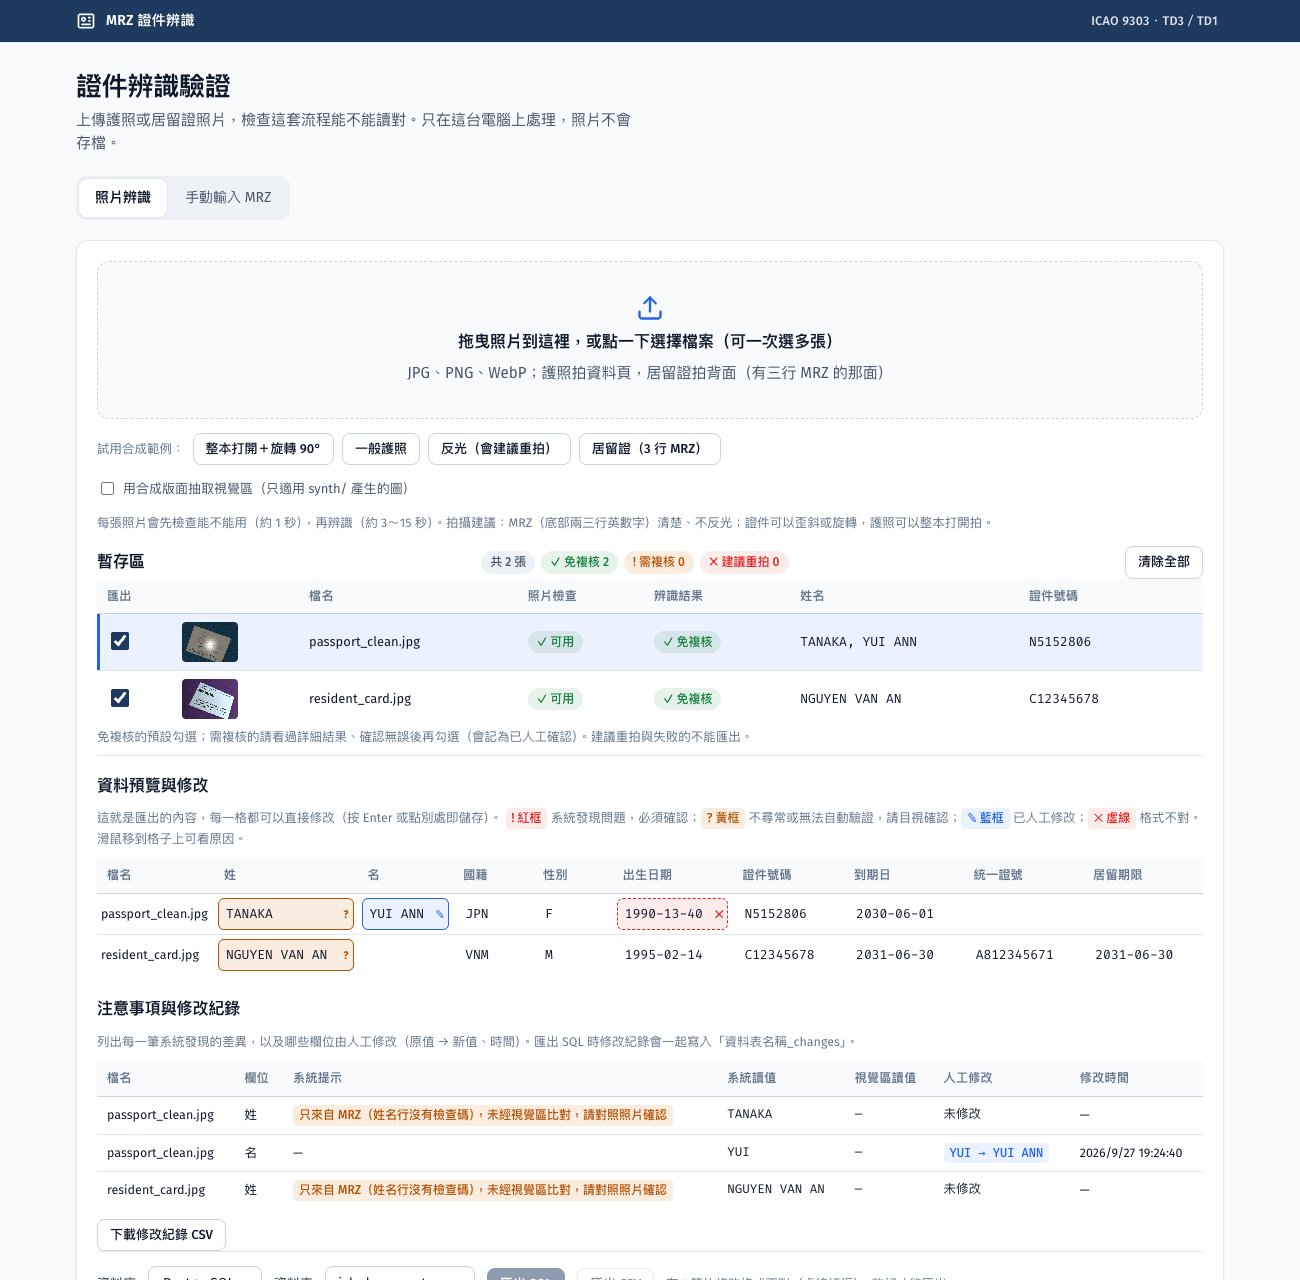
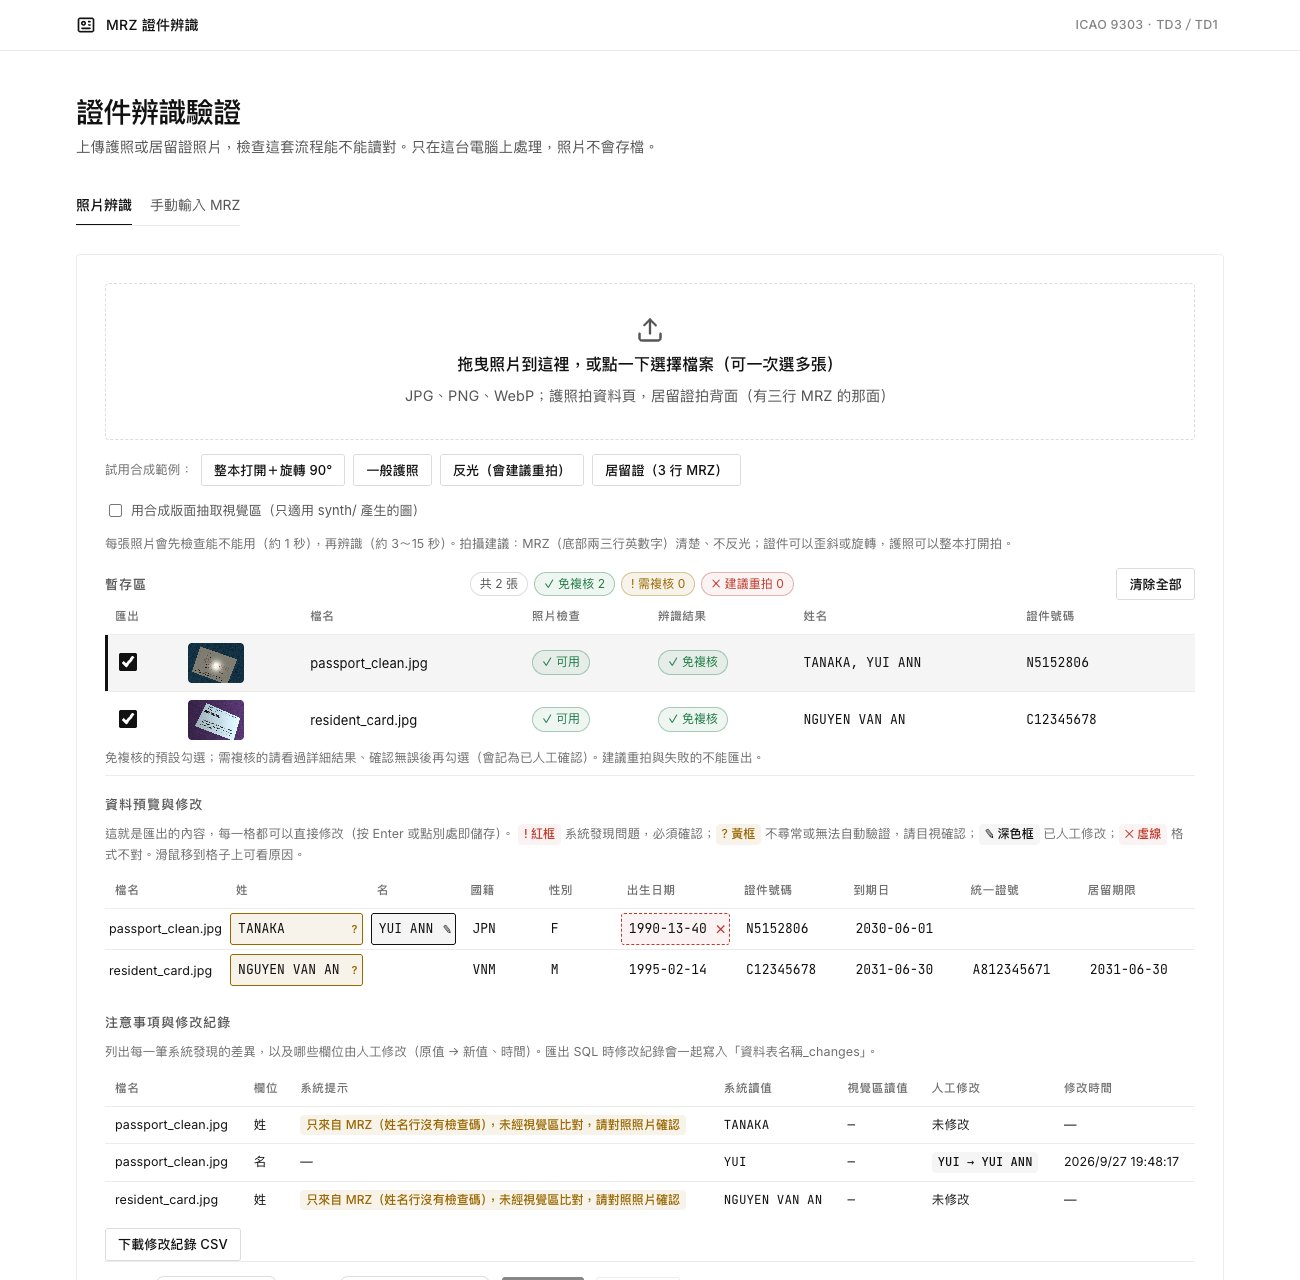
網站改為細緻極簡風格：單色、1px 細線、無陰影、輕字重
- 依 ui-ux-pro-max 的 Minimalism & Swiss Style（單色方向），字型改為 Inter／JetBrains Mono
- 分頁改為底線式、區塊標題小型大寫、狀態標籤改為細框；主要按鈕為黑色（深色模式為淺色）
- 深色模式另訂單色色階；手機上縮小卡片內距
- 更新 README 截圖

diff --git a/web/index.html b/web/index.html
@@ -4,36 +4,30 @@
 <meta charset="utf-8">
 <meta name="viewport" content="width=device-width,initial-scale=1">
 <title>證件辨識驗證</title>
-<!-- 設計系統：ui-ux-pro-max「Minimalism & Swiss Style」＋ Fira Sans／Fira Code（載入失敗時退回系統字型；中文一律用系統字型） -->
+<!-- 設計：細緻極簡（依 ui-ux-pro-max 的 Minimalism & Swiss Style）＋ Inter／JetBrains Mono；中文用系統字型，字型載入失敗時退回系統字型 -->
 <link rel="preconnect" href="https://fonts.googleapis.com">
 <link rel="preconnect" href="https://fonts.gstatic.com" crossorigin>
-<link rel="stylesheet" href="https://fonts.googleapis.com/css2?family=Fira+Code:wght@400;500;600&family=Fira+Sans:wght@400;500;600;700&display=swap">
+<link rel="stylesheet" href="https://fonts.googleapis.com/css2?family=Inter:wght@400;500;600&family=JetBrains+Mono:wght@400;500&display=swap">
 <style>
 :root{
   color-scheme:light;
-  /* 中性色：slate；主色：機構深藍（按鈕），次色：藍（連結、選取）；狀態色只用在狀態，不當裝飾 */
-  --page:#f8fafc; --surface:#ffffff; --sunk:#eef2f7; --line:#e2e8f0; --line-strong:#cbd5e1;
-  --ink:#0f172a; --ink-2:#475569; --muted:#64748b;
-  --primary:#1e3a5f; --primary-hover:#172e4b; --on-primary:#ffffff;
-  --accent:#2563eb; --accent-wash:rgba(37,99,235,.09);
-  --good:#15803d; --good-wash:rgba(21,128,61,.10);
-  --bad:#dc2626; --bad-wash:rgba(220,38,38,.09);
-  --warn:#b45309; --warn-wash:rgba(217,119,6,.13);
-  --shadow:0 1px 2px rgba(15,23,42,.06); --topbar:#1e3a5f;
-  --sans:"Fira Sans",system-ui,-apple-system,"PingFang TC","Noto Sans TC","Microsoft JhengHei","Segoe UI",sans-serif;
-  --mono:"Fira Code",ui-monospace,"SF Mono",Menlo,Consolas,monospace;
+  /* 單色：黑白灰為主，狀態色（綠／黃／紅）只用在狀態 */
+  --page:#ffffff; --surface:#ffffff; --sunk:#f6f6f6; --line:#ececec; --line-strong:#dcdcdc;
+  --ink:#111111; --ink-2:#555555; --muted:#6e6e6e;
+  --primary:#111111; --primary-hover:#333333; --on-primary:#ffffff; --accent:#111111; --accent-wash:rgba(0,0,0,.04);
+  --good:#1f7a45; --good-wash:rgba(31,122,69,.07); --bad:#c0392b; --bad-wash:rgba(192,57,43,.06); --warn:#9a6700; --warn-wash:rgba(154,103,0,.08);
+  --shadow:none; --topbar:#ffffff;
+  --sans:"Inter",system-ui,-apple-system,"PingFang TC","Noto Sans TC","Microsoft JhengHei",sans-serif;
+  --mono:"JetBrains Mono",ui-monospace,"SF Mono",Menlo,Consolas,monospace;
 }
 @media (prefers-color-scheme:dark){
   :root{
     color-scheme:dark;
-    --page:#0b1220; --surface:#111a2b; --sunk:#1a2538; --line:#243149; --line-strong:#334463;
-    --ink:#e2e8f0; --ink-2:#b6c2d4; --muted:#8fa0b8;
-    --primary:#2563eb; --primary-hover:#1d4ed8; --on-primary:#ffffff;
-    --accent:#7aa7ff; --accent-wash:rgba(122,167,255,.14);
-    --good:#4ade80; --good-wash:rgba(74,222,128,.13);
-    --bad:#f87171; --bad-wash:rgba(248,113,113,.15);
-    --warn:#fbbf24; --warn-wash:rgba(251,191,36,.14);
-    --shadow:none; --topbar:#0f1b30;
+    --page:#0e0e0e; --surface:#131313; --sunk:#1b1b1b; --line:#262626; --line-strong:#383838;
+    --ink:#ededed; --ink-2:#b3b3b3; --muted:#8f8f8f;
+    --primary:#ededed; --primary-hover:#ffffff; --on-primary:#111111; --accent:#ededed; --accent-wash:rgba(255,255,255,.06);
+    --good:#5fcf8a; --good-wash:rgba(95,207,138,.10); --bad:#f08a7e; --bad-wash:rgba(240,138,126,.10); --warn:#e0b252; --warn-wash:rgba(224,178,82,.10);
+    --shadow:none; --topbar:#0e0e0e;
   }
 }
 *{box-sizing:border-box}
@@ -153,7 +147,31 @@ table.edit,table.log{width:max-content;min-width:100%}
 .tag{display:inline-block;font-size:12px;font-weight:500;border-radius:4px;padding:1px 6px;white-space:nowrap}
 .tag.bad{background:var(--bad-wash);color:var(--bad)} .tag.warn{background:var(--warn-wash);color:var(--warn)}
 .tag.edited{background:var(--accent-wash);color:var(--accent)}
-@media (max-width:760px){.imgs,.grid2{grid-template-columns:minmax(0,1fr)}.queue .fname{max-width:120px}}
+
+/* 細緻極簡（單色、1px 細線、無陰影、輕字重）：元件規則 */
+body{font-size:14.5px;font-weight:400;letter-spacing:.005em}
+.topbar{color:var(--ink);border-bottom:1px solid var(--line)}
+.topbar .inner{font-weight:500;padding:14px 16px}
+.topbar .tag{color:var(--muted)}
+.wrap{gap:28px;padding-block:44px 80px}
+h1{font-size:28px;font-weight:500;letter-spacing:-.02em}
+h2{font-size:13px;font-weight:500;letter-spacing:.08em;text-transform:uppercase;color:var(--ink-2)}
+.card{border-radius:4px;border-color:var(--line);padding:28px}
+.drop{border:1px dashed var(--line-strong);border-radius:4px;background:var(--page)}
+.drop svg{color:var(--ink-2)} .drop strong{font-weight:500}
+.btn{border-radius:3px;font-weight:500;letter-spacing:.01em}
+.btn.ghost{border-color:var(--line-strong)}
+.tabs{background:transparent;border-bottom:1px solid var(--line);border-radius:0;padding:0;gap:18px}
+.tabs button{border-radius:0;padding:8px 0;background:transparent!important;box-shadow:none!important;border-bottom:1.5px solid transparent;font-weight:400}
+.tabs button[aria-selected="true"]{border-bottom-color:var(--ink);font-weight:500}
+th{background:transparent;font-weight:500;font-size:11.5px;letter-spacing:.06em;border-bottom-color:var(--line)}
+.pill{background:transparent;border:1px solid var(--line-strong);font-weight:400}
+.pill.ok{border-color:rgba(31,122,69,.35)} .pill.bad{border-color:rgba(192,57,43,.35)} .pill.warn{border-color:rgba(154,103,0,.35)}
+.status{border-radius:4px;border:1px solid var(--line);border-left:2px solid transparent;background:var(--surface)!important}
+.status.ok{border-left-color:var(--good)} .status.review{border-left-color:var(--warn)} .status.err{border-left-color:var(--bad)}
+.banner{border-radius:4px;border:1px solid var(--line);border-left:2px solid var(--warn);background:var(--warn-wash)}
+.edit input{border-radius:3px}
+@media (max-width:760px){.card{padding:16px}.wrap{padding-block:28px 64px}.imgs,.grid2{grid-template-columns:minmax(0,1fr)}.queue .fname{max-width:120px}}
 </style>
 </head>
 <body>
@@ -204,7 +222,7 @@ table.edit,table.log{width:max-content;min-width:100%}
       <div id="editArea" hidden>
         <h2>資料預覽與修改</h2>
         <p class="hint">這就是匯出的內容，每一格都可以直接修改（按 Enter 或點別處即儲存）。
-          <span class="tag bad">! 紅框</span> 系統發現問題，必須確認；<span class="tag warn">? 黃框</span> 不尋常或無法自動驗證，請目視確認；<span class="tag edited">✎ 藍框</span> 已人工修改；<span class="tag bad">✕ 虛線</span> 格式不對。滑鼠移到格子上可看原因。</p>
+          <span class="tag bad">! 紅框</span> 系統發現問題，必須確認；<span class="tag warn">? 黃框</span> 不尋常或無法自動驗證，請目視確認；<span class="tag edited">✎ 深色框</span> 已人工修改；<span class="tag bad">✕ 虛線</span> 格式不對。滑鼠移到格子上可看原因。</p>
         <div class="tbl"><table class="edit"><thead id="editHead"></thead><tbody id="editBody"></tbody></table></div>
         <h2>注意事項與修改紀錄</h2>
         <p class="hint">列出每一筆系統發現的差異，以及哪些欄位由人工修改（原值 → 新值、時間）。匯出 SQL 時修改紀錄會一起寫入「資料表名稱_changes」。</p>
